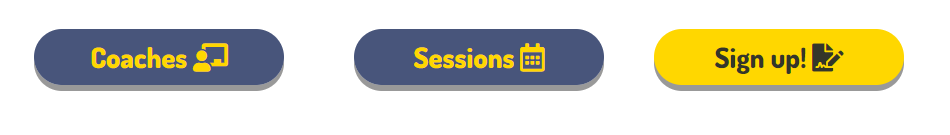
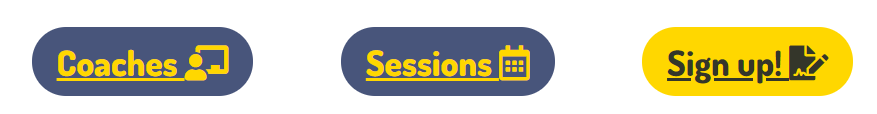
change sign up form submit button colour to gold to fllow site style and change hover effect for user input

diff --git a/assets/css/style.css b/assets/css/style.css
@@ -636,12 +636,13 @@ OPTION {
     text-align: center;
     font-size: 100%;
     font-weight: 800;
-    background-color: #cfb108;
+    background-color: #FFD700;
     color: rgba(1, 14, 53, 0.8);
     cursor: pointer;
 }
 
 .signup-btn:hover {
+    color: #303245;
     background-color: #FFD700;
 }
 

diff --git a/README.md b/README.md
@@ -254,14 +254,18 @@ Each page follows a similar design style for all devices which includes a Naviga
 ![thankyoupage](documents/lighthouse/thankyou-lighthouse.PNG)
 
 
+## Solved Bugs and Errors
 
 
-# Languages Used
+## Unsolved Bugs and Errors
+
+
+## Languages Used
 
 * [HTML](https://en.wikipedia.org/wiki/HTML5)
 * [CSS](https://en.wikipedia.org/wiki/CSS#CSS_3)
 
-# Programs Used
+## Programs Used
 
 * GIT
   * For version control.
